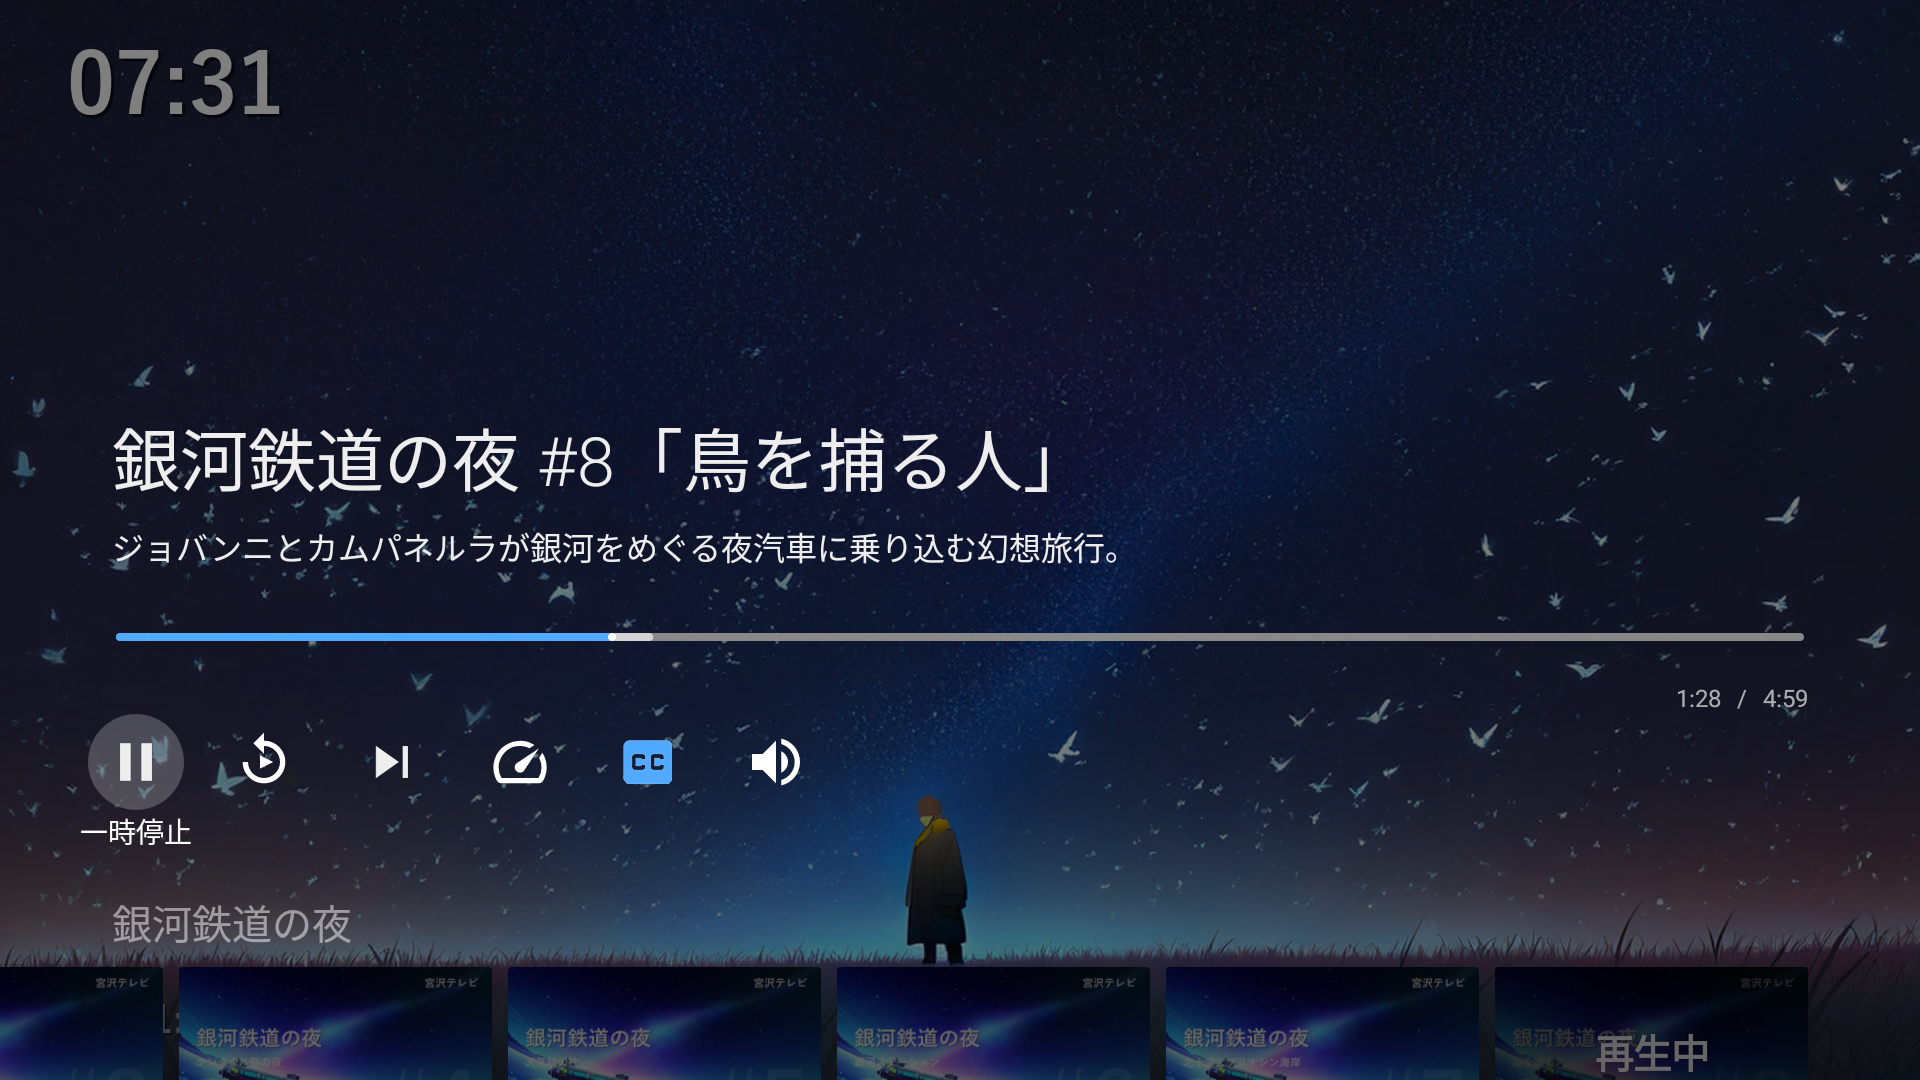
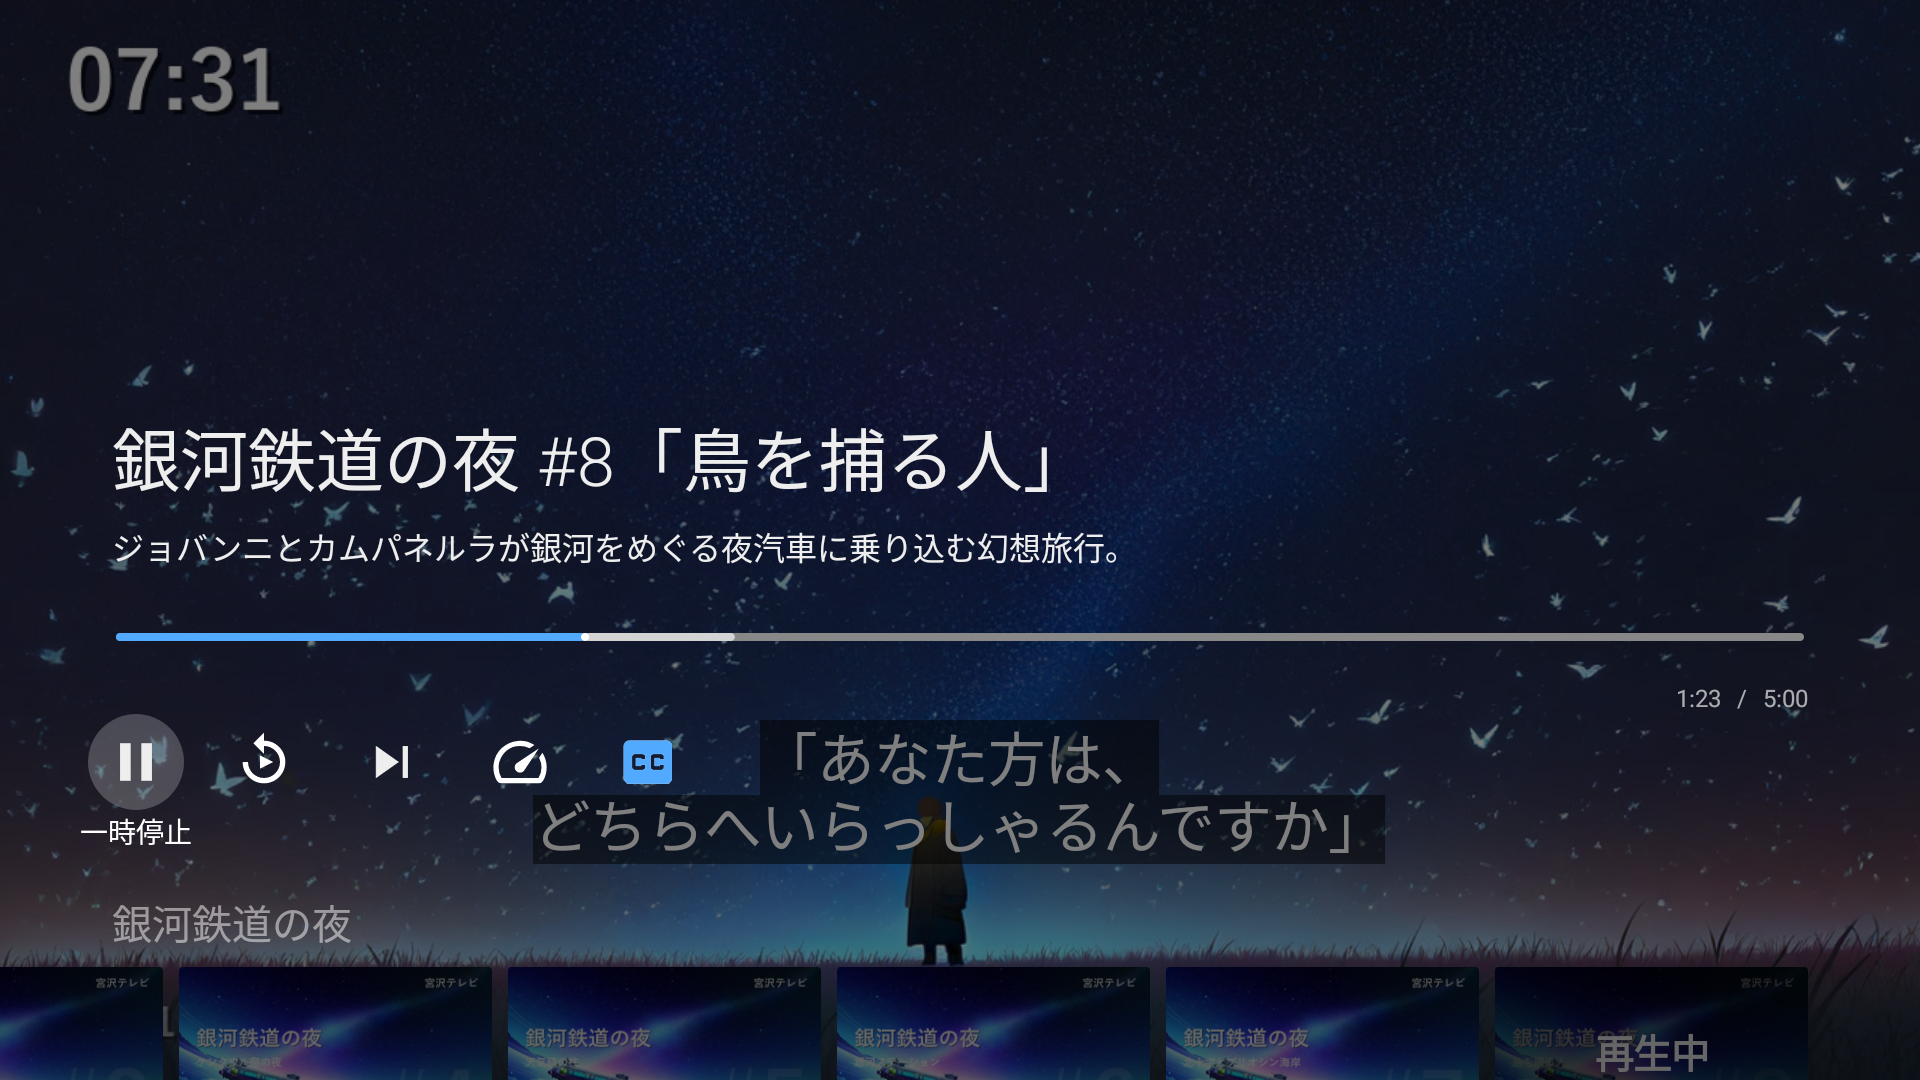
スクリーンショットを追加し README のトップを2×2に並べる
エピソード一覧と再生速度の一覧のスクリーンショットを追加し、マニュアルの該当箇所に
差し込んだ。再生画面のスクリーンショットは字幕が出ている状態で撮り直した。
README のトップに並ぶ4枚は、横一列ではなく2×2で並ぶようにテーブルに入れた。

diff --git a/README.md b/README.md
@@ -3,7 +3,16 @@
 
 リモコンの↑↓←→キー操作が基本となる Android TV から EPGStation の録画を見るために開発されました。
 
-![メイン画面](screenshots/hero.png)
+<table>
+  <tr>
+    <td width="50%"><img src="screenshots/hero.png" alt="メイン画面" width="100%"></td>
+    <td width="50%"><img src="screenshots/search-screen.png" alt="検索画面" width="100%"></td>
+  </tr>
+  <tr>
+    <td width="50%"><img src="screenshots/details-screen.png" alt="番組詳細画面" width="100%"></td>
+    <td width="50%"><img src="screenshots/playback-screen.png" alt="内蔵プレーヤー" width="100%"></td>
+  </tr>
+</table>
 
 ## 特徴
 - Android TV 向け標準 UI の Leanback テーマを使用
